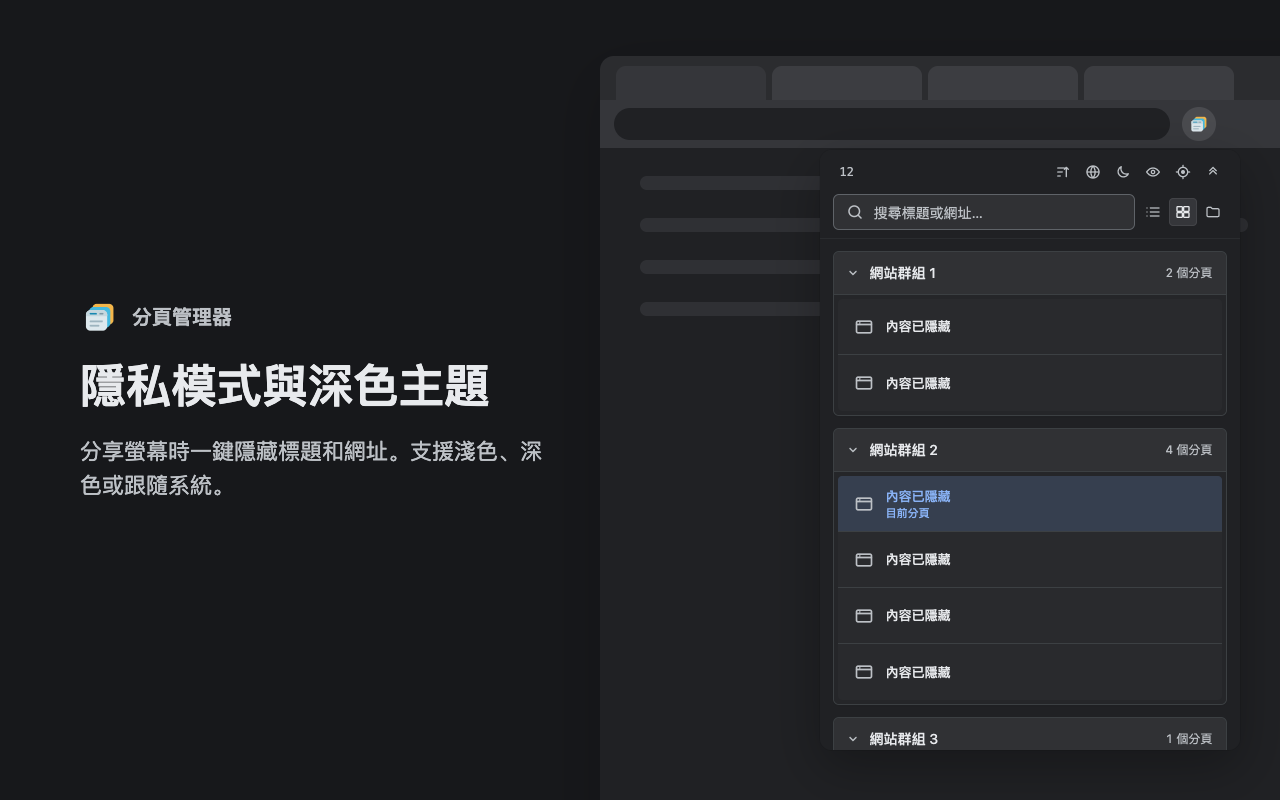
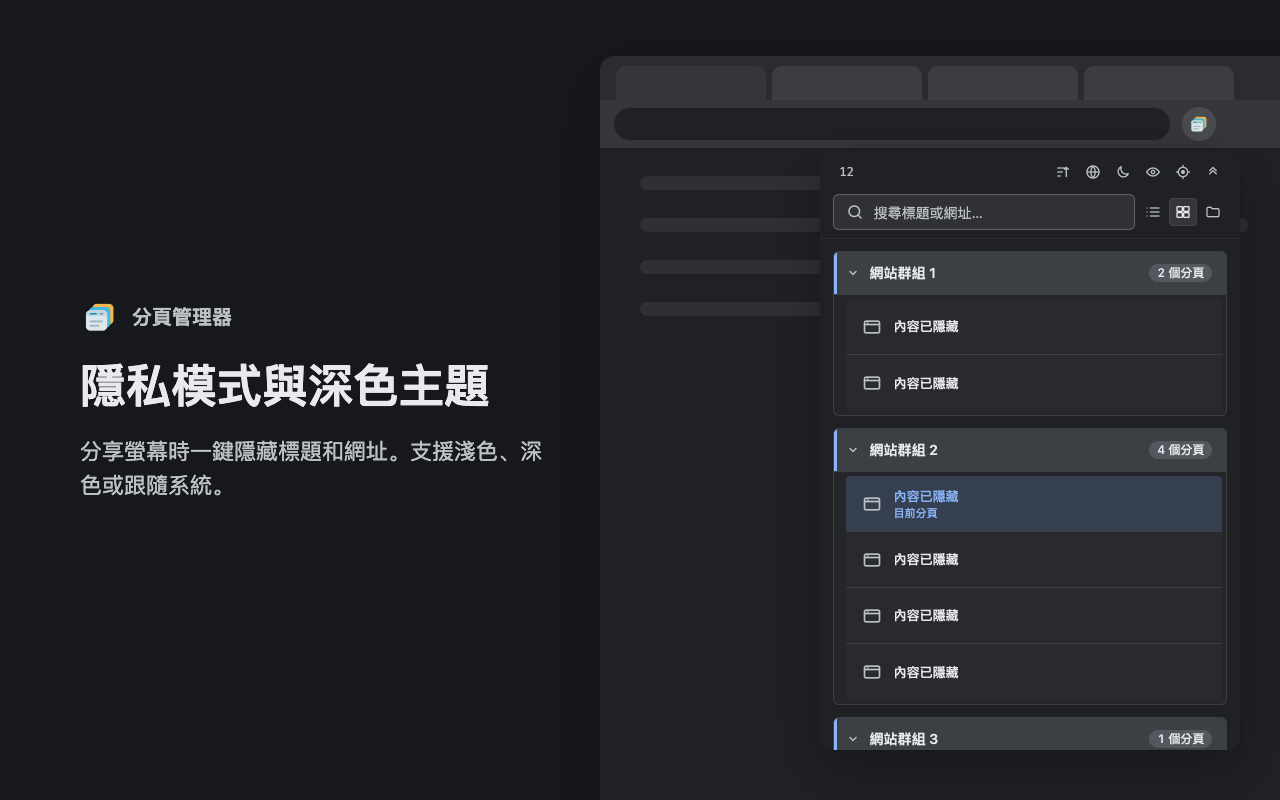
style: set group headers apart from tab rows in light and dark modes
Group headers in the list, grid and custom-group views now sit on a
tinted band with a 3px accent marker, a semibold title and a pill count
badge, and the tabs under them are indented. Hover and pressed states
use matching header tokens. Store screenshots and promo tiles are
regenerated for en, zh-CN and zh-TW.

diff --git a/src/styles.css b/src/styles.css
@@ -20,6 +20,13 @@
   --color-danger-soft: #fce8e6;
   --color-focus: #0b57d0;
   --color-on-accent: #ffffff;
+  /* Group headers (window, domain and custom groups) sit on a tinted band
+     with an accent marker so they read apart from the white tab rows. */
+  --color-group-header: #eceef2;
+  --color-group-header-hover: #e1e4e9;
+  --color-group-header-pressed: #d6dae0;
+  --color-group-count: #dadde3;
+  --color-group-marker: var(--color-accent);
   --shadow-sticky: 0 1px 3px rgb(60 64 67 / 18%);
   --radius-sm: 4px;
   --radius-md: 6px;
@@ -56,6 +63,10 @@
   --color-danger-soft: #5c2b29;
   --color-focus: #aecbfa;
   --color-on-accent: #202124;
+  --color-group-header: #3c3f44;
+  --color-group-header-hover: #46494f;
+  --color-group-header-pressed: #4f535a;
+  --color-group-count: #53575e;
   --shadow-sticky: 0 1px 4px rgb(0 0 0 / 45%);
 }
 
@@ -77,6 +88,10 @@
     --color-danger-soft: #5c2b29;
     --color-focus: #aecbfa;
     --color-on-accent: #202124;
+    --color-group-header: #3c3f44;
+    --color-group-header-hover: #46494f;
+    --color-group-header-pressed: #4f535a;
+    --color-group-count: #53575e;
     --shadow-sticky: 0 1px 4px rgb(0 0 0 / 45%);
   }
 }
@@ -427,8 +442,9 @@ main {
   display: grid;
   grid-template-columns: minmax(0, 1fr) auto;
   align-items: stretch;
-  background: var(--color-surface-raised);
+  background: var(--color-group-header);
   border-bottom: 1px solid var(--color-border-subtle);
+  box-shadow: inset 3px 0 0 var(--color-group-marker);
 }
 
 .window-toggle {
@@ -441,15 +457,17 @@ main {
   gap: 6px;
   padding: 0 10px;
   text-align: left;
-  background: var(--color-surface-raised);
+  background: var(--color-group-header);
   border: 0;
   border-bottom: 1px solid var(--color-border-subtle);
+  box-shadow: inset 3px 0 0 var(--color-group-marker);
 }
 
 .domain-group-heading .window-toggle {
   background: transparent;
   border-bottom: 0;
   border-left: 0;
+  box-shadow: none;
 }
 
 .domain-group-actions {
@@ -473,11 +491,11 @@ main {
 }
 
 .window-toggle:hover {
-  background: var(--color-hover);
+  background: var(--color-group-header-hover);
 }
 
 .window-toggle:active {
-  background: var(--color-pressed);
+  background: var(--color-group-header-pressed);
 }
 
 .window-toggle svg {
@@ -491,22 +509,26 @@ main {
 
 .window-toggle > span:first-of-type {
   overflow: hidden;
-  font-weight: 500;
+  font-weight: 600;
   text-overflow: ellipsis;
   white-space: nowrap;
 }
 
 .window-toggle > span:last-child {
-  color: var(--color-text-muted);
+  padding: 1px 8px;
+  color: var(--color-text);
+  background: var(--color-group-count);
+  border-radius: 999px;
   font-size: 12px;
-  font-weight: 400;
+  font-weight: 500;
   font-variant-numeric: tabular-nums;
   white-space: nowrap;
 }
 
+/* Tabs sit indented under their group header. */
 .tab-list {
   margin: 0;
-  padding: 4px 0;
+  padding: 4px 0 4px 8px;
   list-style: none;
   background: color-mix(in srgb, var(--color-bg) 42%, var(--color-surface));
 }
@@ -1109,11 +1131,11 @@ main {
 }
 
 .domain-group-heading:hover {
-  background: var(--color-hover);
+  background: var(--color-group-header-hover);
 }
 
 .domain-group-heading:has(.window-toggle:active) {
-  background: var(--color-pressed);
+  background: var(--color-group-header-pressed);
 }
 
 .domain-group-heading .window-toggle:hover,

diff --git a/src/App.i18n.test.tsx b/src/App.i18n.test.tsx
@@ -732,6 +732,30 @@ describe('compact progressive sticky toolbar CSS contract', () => {
   })
 
 
+  it('sets group headers apart from tab rows in light and dark schemes', () => {
+    const light = declarationsFor(':root')
+    const dark = declarationsFor(':root[data-color-scheme="dark"]')
+    expect(light.get('--color-group-header')).toBe('#eceef2')
+    expect(dark.get('--color-group-header')).toBe('#3c3f44')
+    expect(light.get('--color-group-marker')).toBe('var(--color-accent)')
+
+    for (const selector of ['.domain-group-heading', '.window-toggle']) {
+      const header = declarationsFor(selector)
+      expect(header.get('background')).toBe('var(--color-group-header)')
+      expect(header.get('box-shadow')).toBe('inset 3px 0 0 var(--color-group-marker)')
+    }
+    expect(declarationsFor('.domain-group-heading .window-toggle').get('box-shadow')).toBe('none')
+    expect(declarationsFor('.window-toggle:hover').get('background')).toBe('var(--color-group-header-hover)')
+    expect(declarationsFor('.window-toggle:active').get('background')).toBe('var(--color-group-header-pressed)')
+    expect(declarationsFor('.domain-group-heading:has(.window-toggle:active)').get('background')).toBe('var(--color-group-header-pressed)')
+
+    expect(declarationsFor('.window-toggle>span:first-of-type').get('font-weight')).toBe('600')
+    const count = declarationsFor('.window-toggle>span:last-child')
+    expect(count.get('color')).toBe('var(--color-text)')
+    expect(count.get('background')).toBe('var(--color-group-count)')
+    expect(declarationsFor('.tab-list').get('padding')).toBe('4px 0 4px 8px')
+  })
+
   it('scopes compact background-free row actions without changing generic icon buttons', () => {
     const root = declarationsFor(':root')
     expect(root.get('--row-action-size')).toBe('26px')
@@ -762,7 +786,7 @@ describe('compact progressive sticky toolbar CSS contract', () => {
     expect(focus.get('outline')).toBe('2px solid var(--color-focus)')
     expect(focus.get('outline-offset')).toBe('1px')
 
-    expect(declarationsFor('.domain-group-heading:hover').get('background')).toBe('var(--color-hover)')
+    expect(declarationsFor('.domain-group-heading:hover').get('background')).toBe('var(--color-group-header-hover)')
     expect(declarationsFor(
       '.domain-group-heading .window-toggle:hover,.domain-group-heading .window-toggle:active,.domain-group-heading .custom-group-drag-handle:hover:not(:disabled),.domain-group-heading .domain-group-action:hover:not(:disabled),.domain-group-heading .domain-group-action:active:not(:disabled),.domain-group-heading .domain-group-action.row-close-action:hover:not(:disabled)',
     ).get('background')).toBe('transparent')
